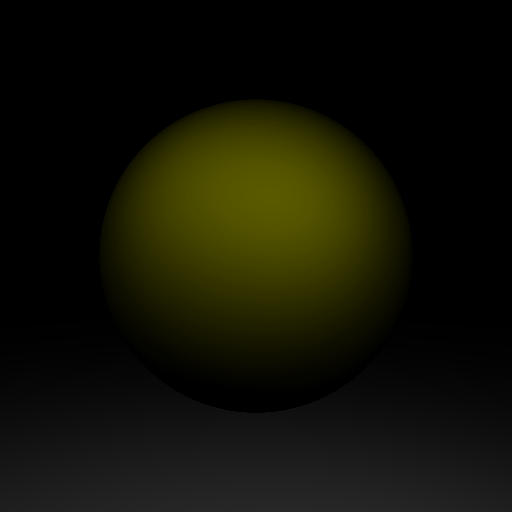
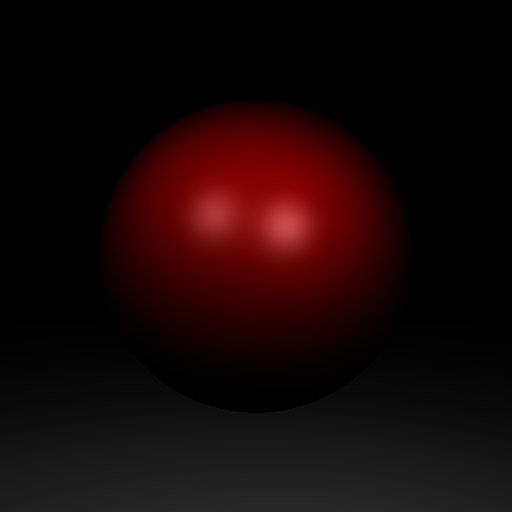
Implemented Blinn model

Changed region(s): [[0.2188, 0.1875, 0.7812, 0.6875]]

diff --git a/rt/src/rt/materials/Blinn.java b/rt/src/rt/materials/Blinn.java
@@ -1,0 +1,100 @@
+package rt.materials;
+
+import javax.vecmath.Vector3f;
+
+import rt.*;
+
+/**
+ * A basic diffuse material.
+ */
+public class Blinn implements Material {
+
+	private Spectrum kd;
+	private Spectrum ks;
+	private float s;
+	
+	/**
+	 * Note that the parameter value {@param kd} is the diffuse reflectance,
+	 * which should be in the range [0,1], a value of 1 meaning all light
+	 * is reflected (diffusely), and none is absorbed. The diffuse BRDF
+	 * corresponding to {@param kd} is actually {@param kd}/pi.
+	 * 
+	 * @param kd the diffuse reflectance
+	 */
+	public Blinn(Spectrum kd, Spectrum ks, float s)
+	{
+		this.kd = new Spectrum(kd);
+		this.ks = new Spectrum(ks);
+		this.s = s;
+		
+		// Normalize
+		this.kd.mult(1/(float)Math.PI);
+	}
+	
+
+	/**
+	 * Returns diffuse BRDF value, that is, a constant.
+	 * 
+	 *  @param wOut outgoing direction, by convention towards camera
+	 *  @param wIn incident direction, by convention towards light
+	 *  @param hitRecord hit record to be used
+	 */
+	public Spectrum evaluateBRDF(HitRecord hitRecord, Vector3f wOut, Vector3f wIn) {
+		Spectrum kd = new Spectrum(this.kd);
+		kd.mult(wIn.dot(hitRecord.normal));
+		
+		Spectrum ks = new Spectrum(this.ks);
+		
+		Vector3f h = new Vector3f();
+		h.add(wIn, wOut);
+		h.normalize();
+		ks.mult((float)Math.pow(h.dot(hitRecord.normal),this.s));
+		
+		Spectrum ka = new Spectrum(this.kd);
+		
+		Spectrum total = new Spectrum(kd);
+		total.add(ks);
+		total.add(ka);
+		
+		return total;
+	}
+
+	public boolean hasSpecularReflection()
+	{
+		return false;
+	}
+	
+	public ShadingSample evaluateSpecularReflection(HitRecord hitRecord)
+	{
+		return null;
+	}
+	public boolean hasSpecularRefraction()
+	{
+		return false;
+	}
+
+	public ShadingSample evaluateSpecularRefraction(HitRecord hitRecord)
+	{
+		return null;
+	}
+	
+	// To be implemented for path tracer!
+	public ShadingSample getShadingSample(HitRecord hitRecord, float[] sample)
+	{
+		return null;	
+	}
+		
+	public boolean castsShadows()
+	{
+		return true;
+	}
+	
+	public Spectrum evaluateEmission(HitRecord hitRecord, Vector3f wOut) {
+		return new Spectrum(0.f, 0.f, 0.f);
+	}
+
+	public ShadingSample getEmissionSample(HitRecord hitRecord, float[] sample) {
+		return new ShadingSample();
+	}
+	
+}

diff --git a/rt/src/rt/testscenes/Blinn.java b/rt/src/rt/testscenes/Blinn.java
@@ -3,7 +3,6 @@ package rt.testscenes;
 import javax.vecmath.Vector3f;
 
 import rt.*;
-import rt.IntersectableList;
 import rt.cameras.*;
 import rt.films.*;
 import rt.integrators.*;
@@ -48,7 +47,7 @@ public class Blinn extends Scene {
 		
 		// Sphere with Blinn material
 		CSGSphere sphere = new CSGSphere(new Vector3f(0,0,0), 1);
-//		sphere.material = new rt.materials.Blinn(new Spectrum(.8f, 0.f, 0.f), new Spectrum(.4f, .4f, .4f), 50.f);
+		sphere.material = new rt.materials.Blinn(new Spectrum(.8f, 0.f, 0.f), new Spectrum(.4f, .4f, .4f), 50.f);
 		
 		IntersectableList intersectableList = new IntersectableList();
 		intersectableList.add(groundPlane);

diff --git a/rt/src/rt/Main.java b/rt/src/rt/Main.java
@@ -22,7 +22,8 @@ public class Main {
 //	public static Scene scene = new rt.testscenes.MeshTest();
 //	public static Scene scene = new rt.testscenes.CSGPrimitives();
 //	public static Scene scene = new rt.testscenes.InstancingTest();
-	public static Scene scene = new rt.testscenes.InstancingTeapots();
+//	public static Scene scene = new rt.testscenes.InstancingTeapots();
+	public static Scene scene = new rt.testscenes.Blinn();
 
 	static LinkedList<RenderTask> queue;
 	static Counter tasksLeft;
